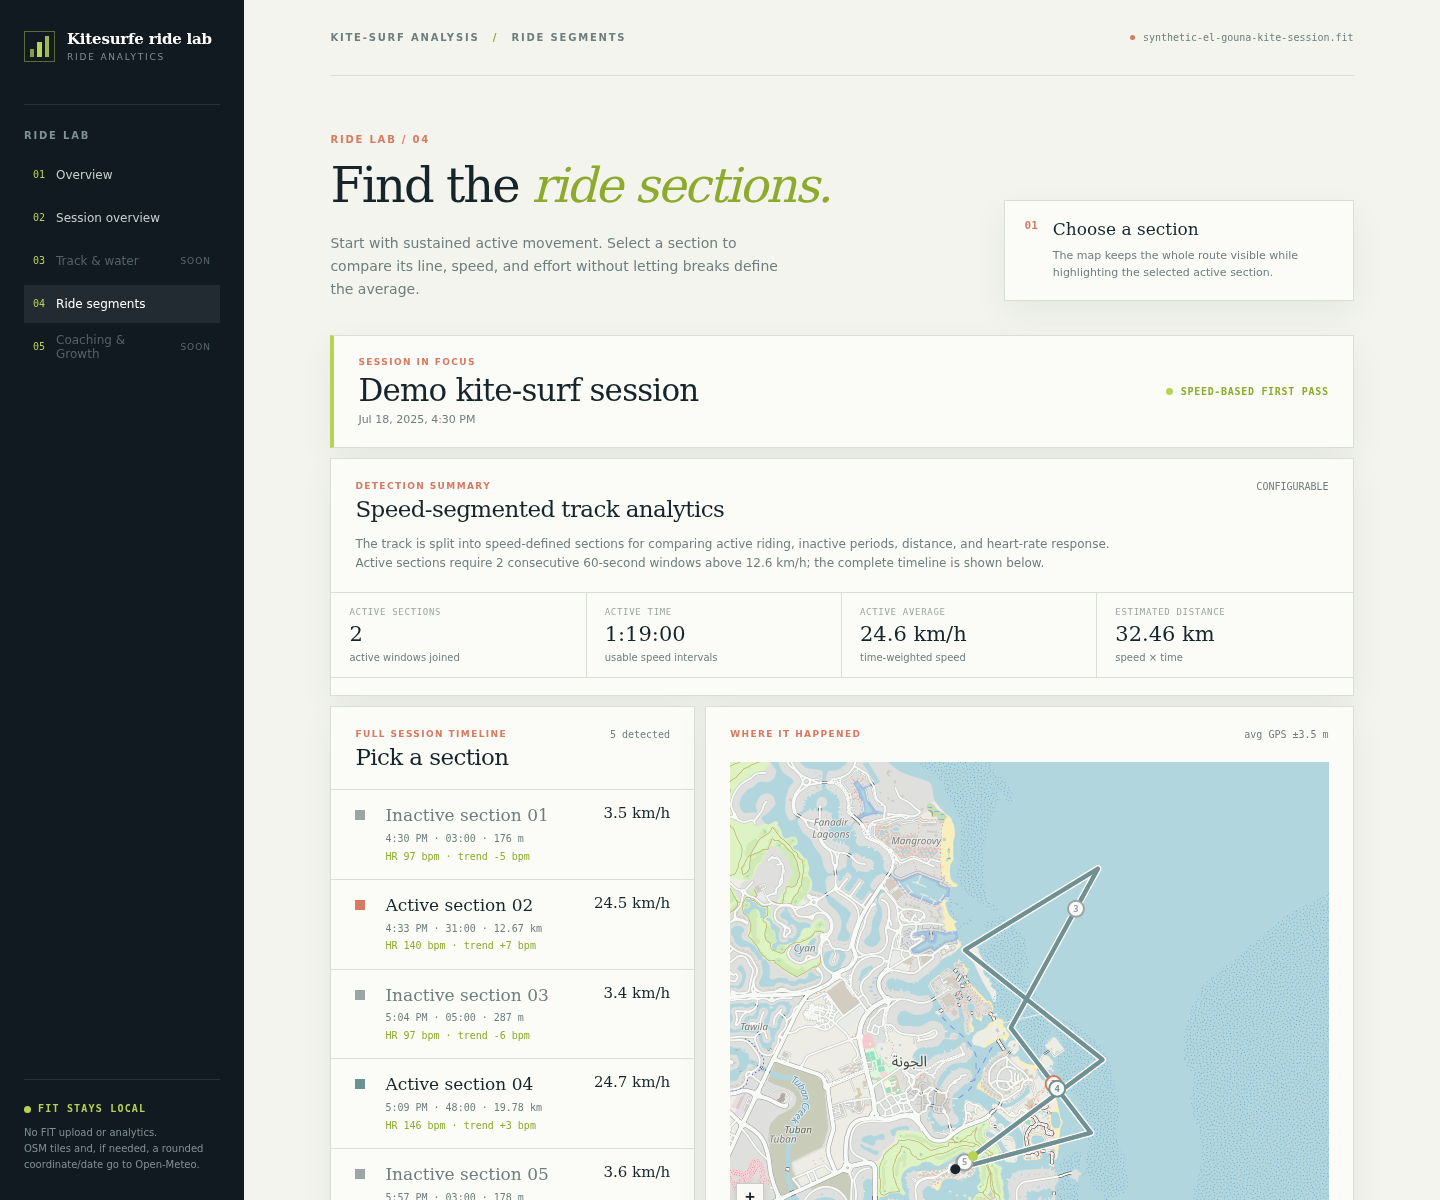
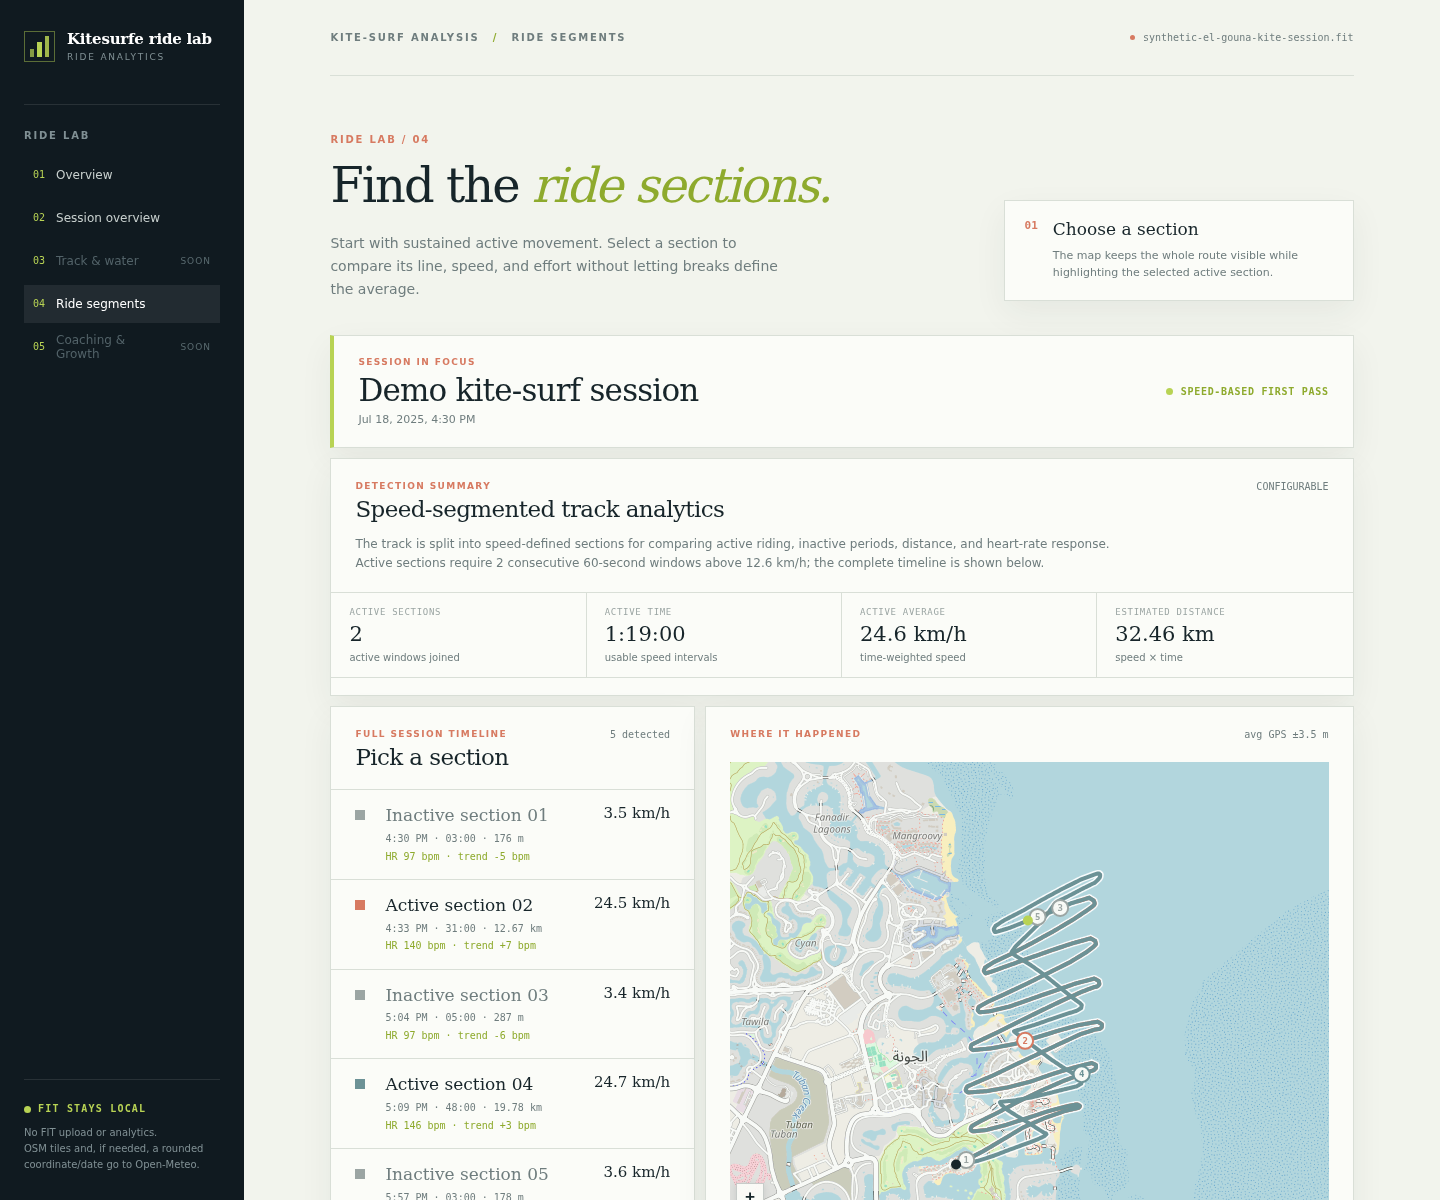
update docs

Changed region(s): [[0.5, 0.6167, 0.7812, 1.0], [0.8125, 0.7708, 0.9062, 1.0]]

diff --git a/public/demo-session.js b/public/demo-session.js
@@ -5,11 +5,183 @@ const START_TIME = Math.floor((Date.UTC(2025, 6, 18, 13, 30) - FIT_EPOCH_MS) / 1
 const EL_GOUNA = { latitude: 27.3976, longitude: 33.6842 };
 const ROUTE_NODES_METRES = [
   { east: -600, north: -780 },
-  { east: 650, north: 150 },
-  { east: -520, north: 1080 },
-  { east: 610, north: 1770 },
-  { east: -130, north: 420 },
-  { east: 550, north: -470 },
+  { east: -505, north: -738 },
+  { east: -365, north: -665 },
+  { east: -205, north: -570 },
+  { east: -30, north: -466 },
+  { east: 155, north: -385 },
+  { east: 325, north: -326 },
+  { east: 440, north: -300 },
+  { east: 454, north: -284 },
+  { east: 427, north: -270 },
+  { east: 355, north: -283 },
+  { east: 190, north: -326 },
+  { east: 5, north: -386 },
+  { east: -180, north: -446 },
+  { east: -345, north: -488 },
+  { east: -460, north: -500 },
+  { east: -479, north: -483 },
+  { east: -468, north: -455 },
+  { east: -395, north: -414 },
+  { east: -240, north: -337 },
+  { east: -65, north: -243 },
+  { east: 120, north: -155 },
+  { east: 305, north: -74 },
+  { east: 470, north: -12 },
+  { east: 570, north: 20 },
+  { east: 588, north: 39 },
+  { east: 587, north: 65 },
+  { east: 550, north: 80 },
+  { east: 395, north: 41 },
+  { east: 220, north: -12 },
+  { east: 35, north: -76 },
+  { east: -155, north: -125 },
+  { east: -340, north: -158 },
+  { east: -500, north: -170 },
+  { east: -520, north: -152 },
+  { east: -508, north: -120 },
+  { east: -435, north: -88 },
+  { east: -280, north: -22 },
+  { east: -100, north: 65 },
+  { east: 90, north: 154 },
+  { east: 280, north: 244 },
+  { east: 455, north: 325 },
+  { east: 580, north: 365 },
+  { east: 620, north: 370 },
+  { east: 638, north: 385 },
+  { east: 637, north: 411 },
+  { east: 600, north: 431 },
+  { east: 440, north: 402 },
+  { east: 270, north: 355 },
+  { east: 90, north: 300 },
+  { east: -100, north: 243 },
+  { east: -300, north: 205 },
+  { east: -460, north: 190 },
+  { east: -478, north: 208 },
+  { east: -470, north: 235 },
+  { east: -395, north: 272 },
+  { east: -240, north: 345 },
+  { east: -70, north: 430 },
+  { east: 110, north: 519 },
+  { east: 290, north: 605 },
+  { east: 465, north: 684 },
+  { east: 570, north: 724 },
+  { east: 600, north: 730 },
+  { east: 616, north: 747 },
+  { east: 612, north: 775 },
+  { east: 574, north: 797 },
+  { east: 415, north: 755 },
+  { east: 235, north: 693 },
+  { east: 45, north: 627 },
+  { east: -145, north: 560 },
+  { east: -310, north: 520 },
+  { east: -400, north: 510 },
+  { east: -417, north: 530 },
+  { east: -408, north: 557 },
+  { east: -330, north: 600 },
+  { east: -170, north: 673 },
+  { east: 10, north: 758 },
+  { east: 190, north: 848 },
+  { east: 365, north: 935 },
+  { east: 505, north: 1020 },
+  { east: 555, north: 1058 },
+  { east: 570, north: 1070 },
+  { east: 587, north: 1089 },
+  { east: 581, north: 1116 },
+  { east: 542, north: 1138 },
+  { east: 385, north: 1095 },
+  { east: 205, north: 1035 },
+  { east: 20, north: 970 },
+  { east: -160, north: 906 },
+  { east: -300, north: 856 },
+  { east: -350, north: 840 },
+  { east: -365, north: 861 },
+  { east: -354, north: 890 },
+  { east: -280, north: 936 },
+  { east: -120, north: 1012 },
+  { east: 55, north: 1104 },
+  { east: 230, north: 1200 },
+  { east: 395, north: 1298 },
+  { east: 520, north: 1381 },
+  { east: 560, north: 1410 },
+  { east: 578, north: 1429 },
+  { east: 570, north: 1457 },
+  { east: 530, north: 1482 },
+  { east: 375, north: 1435 },
+  { east: 200, north: 1360 },
+  { east: 25, north: 1295 },
+  { east: -145, north: 1227 },
+  { east: -250, north: 1195 },
+  { east: -270, north: 1190 },
+  { east: -283, north: 1213 },
+  { east: -266, north: 1243 },
+  { east: -194, north: 1290 },
+  { east: -35, north: 1372 },
+  { east: 135, north: 1468 },
+  { east: 305, north: 1560 },
+  { east: 468, north: 1641 },
+  { east: 580, north: 1682 },
+  { east: 610, north: 1690 },
+  { east: 625, north: 1676 },
+  { east: 618, north: 1650 },
+  { east: 580, north: 1612 },
+  { east: 475, north: 1560 },
+  { east: 355, north: 1497 },
+  { east: 260, north: 1450 },
+  { east: 230, north: 1422 },
+  { east: 186, north: 1360 },
+  { east: 125, north: 1286 },
+  { east: 55, north: 1215 },
+  { east: -18, north: 1144 },
+  { east: -93, north: 1073 },
+  { east: -130, north: 1020 },
+  { east: -111, north: 1000 },
+  { east: -55, north: 965 },
+  { east: 30, north: 914 },
+  { east: 125, north: 846 },
+  { east: 225, north: 767 },
+  { east: 325, north: 685 },
+  { east: 410, north: 618 },
+  { east: 450, north: 590 },
+  { east: 467, north: 572 },
+  { east: 462, north: 548 },
+  { east: 425, north: 524 },
+  { east: 315, north: 490 },
+  { east: 195, north: 449 },
+  { east: 70, north: 405 },
+  { east: -55, north: 367 },
+  { east: -110, north: 350 },
+  { east: -82, north: 327 },
+  { east: -24, north: 284 },
+  { east: 52, north: 226 },
+  { east: 132, north: 166 },
+  { east: 215, north: 105 },
+  { east: 300, north: 48 },
+  { east: 382, north: -2 },
+  { east: 450, north: -50 },
+  { east: 466, north: -66 },
+  { east: 464, north: -93 },
+  { east: 425, north: -117 },
+  { east: 305, north: -146 },
+  { east: 175, north: -179 },
+  { east: 40, north: -211 },
+  { east: -105, north: -237 },
+  { east: -230, north: -250 },
+  { east: -216, north: -273 },
+  { east: -160, north: -320 },
+  { east: -86, north: -367 },
+  { east: -4, north: -416 },
+  { east: 75, north: -466 },
+  { east: 140, north: -507 },
+  { east: 170, north: -520 },
+  { east: 150, north: -540 },
+  { east: 100, north: -563 },
+  { east: 28, north: -592 },
+  { east: -62, north: -624 },
+  { east: -165, north: -662 },
+  { east: -280, north: -706 },
+  { east: -410, north: -748 },
+  { east: -530, north: -775 },
   { east: -600, north: -780 },
 ];
 

diff --git a/README.md b/README.md
@@ -1,36 +1,35 @@
-# FIT field notes
+# Kitesurf .fit File Data Session Analytics 
 
-A local dashboard for exploring a Suunto Sport `.fit` export. It was designed and tested with Suunto `.fit` files, but should generally work with `.fit` exports from other manufacturers as well.
-
-## Screenshots
-
-All screenshots below use entirely synthetic data, not values from `sample_data/` or any real rider. They show a fictional 90-minute kite session at El Gouna, Egypt, with fabricated summer-style NNW wind around 18 kt and gusts around 23 kt. The in-app description and session title identify the data as a demo.
+A web dashboard for exploring a sport `.fit` formated file data export. This app is specifically tailored to analyse kite surf sessions. It was designed and tested with Suunto `.fit` generated data, but generally works with any `.fit` compatible files from other manufacturers like Garmin, etc.
 
 ### Overview
 
-![Overview showing a synthetic El Gouna kite session](docs/overview-demo.png)
+![Overview showing a synthetic kite session](docs/overview-demo.png)
+
+Shows the sessions training load metrics and health sensor data visualizations like speed and heart rate as well as the track location on static map.
 
 ### Session overview
 
 ![Session overview showing synthetic wind and technique data](docs/session-overview-demo.png)
 
-### Session overview interaction
-
-The linked cursor selection updates the speed and heart-rate graphs, map marker, and shared session readout together.
+Highligthed session events and wind data annotation.
 
 ![Session overview showing a linked graph and map selection](docs/session-overview-interaction-demo.png)
 
+Analyze sensor data linked to every geographic location on the map at any point in time.
+
 ### Ride segments
 
-![Ride segments showing a synthetic El Gouna route](docs/ride-segments-demo.png)
+![Ride segments](docs/ride-segments-demo.png)
+
+Automatically detected session segments along the recorded track with statistic for each split.
 
 ## Privacy
 
-- Your selected FIT file is decoded, analysed, and rendered entirely in the browser. It is never uploaded to this app or its server.
-- The FIT file and derived activity data are held only in the current page's memory. The app does not write them to local storage, IndexedDB, cookies, or an account. Reloading or closing the tab clears the current activity.
-- When a GPS track is visible, your browser requests the required OpenStreetMap tiles directly. OpenStreetMap receives those tile requests, not the FIT file or a separately uploaded route.
-- If saved wind data is absent or incomplete, the app may request Open-Meteo historical weather using one representative GPS coordinate rounded to two decimal places and the session's UTC start/end dates. It never sends the FIT file or full GPS track; the returned weather annotation remains in browser memory.
-- The app has no analytics or activity-data upload service.
+- Your selected .FIT file is decoded, analysed and rendered in the your local browser only.
+- The .FIT file and derived activity data are held only in the current page's memory. The app does not write them to local storage, IndexedDB, cookies, or an account. Reloading or closing the tab clears the current activity.
+- When a GPS track is visible, your browser requests the required OpenStreetMap tiles based on track GPS location.
+- Wind data is loaded from OpenMeteo using the GPS coordinates and the session's UTC start/end timestamps.
 
 ## Run
 
@@ -47,7 +46,3 @@ npm run app -- --port 4174
 ```
 
 The decoder validates FIT header and file CRCs, understands standard FIT definitions, compressed timestamps, FIT scaling, GPS/speed/heart-rate fields, standard weather conditions, and Suunto developer-field descriptions. The overview draws a downsampled GPS track over OpenStreetMap tiles and expands compact message sections with representative field values while leaving time-series values out. Unknown messages and fields remain in the parsed activity model so records, route, and sport-specific pages can be added without changing the import flow.
-
-The dashboard first uses valid wind samples already saved in the FIT file. If they are absent or do not cover the whole timestamped session, it requests hourly wind speed, direction, and gust data from Open-Meteo's Historical Weather API. That request contains only one representative GPS coordinate rounded to two decimal places plus the UTC start/end dates, never the FIT file or full GPS track. Open-Meteo samples are interpolated locally as wind vectors, labelled as modelled data, and kept only in the browser's in-memory activity model.
-
-OpenStreetMap's public tiles are free for reasonable use but are not an unlimited API. The map includes the required attribution and makes no analytics or FIT-data requests. Modelled weather includes Open-Meteo attribution in the dashboard.
